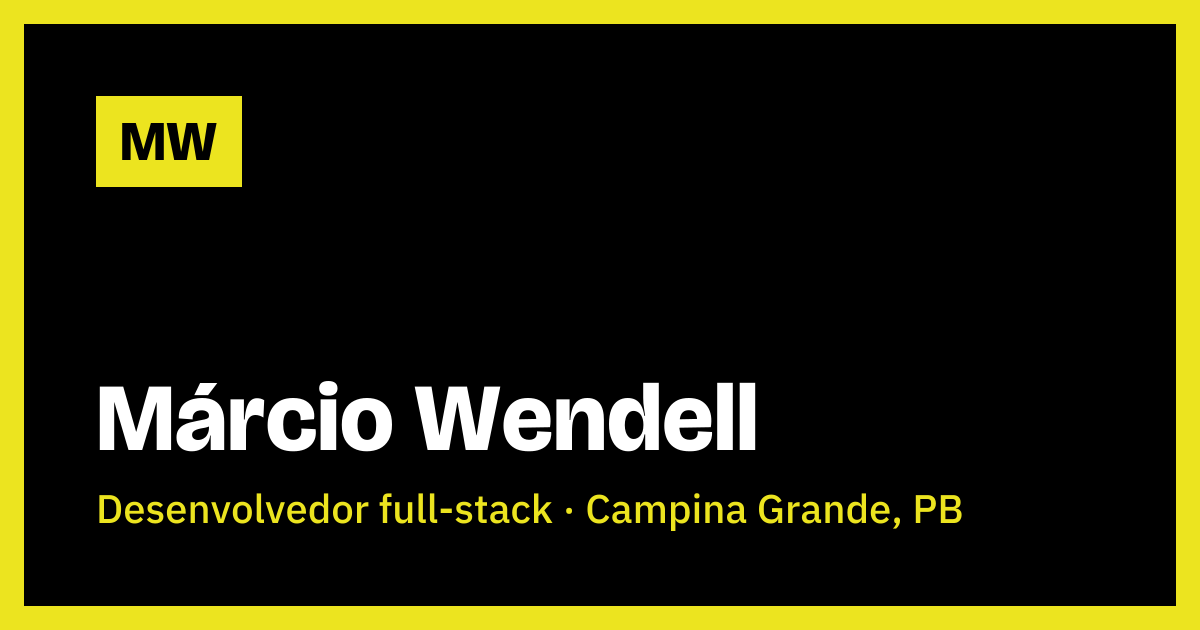
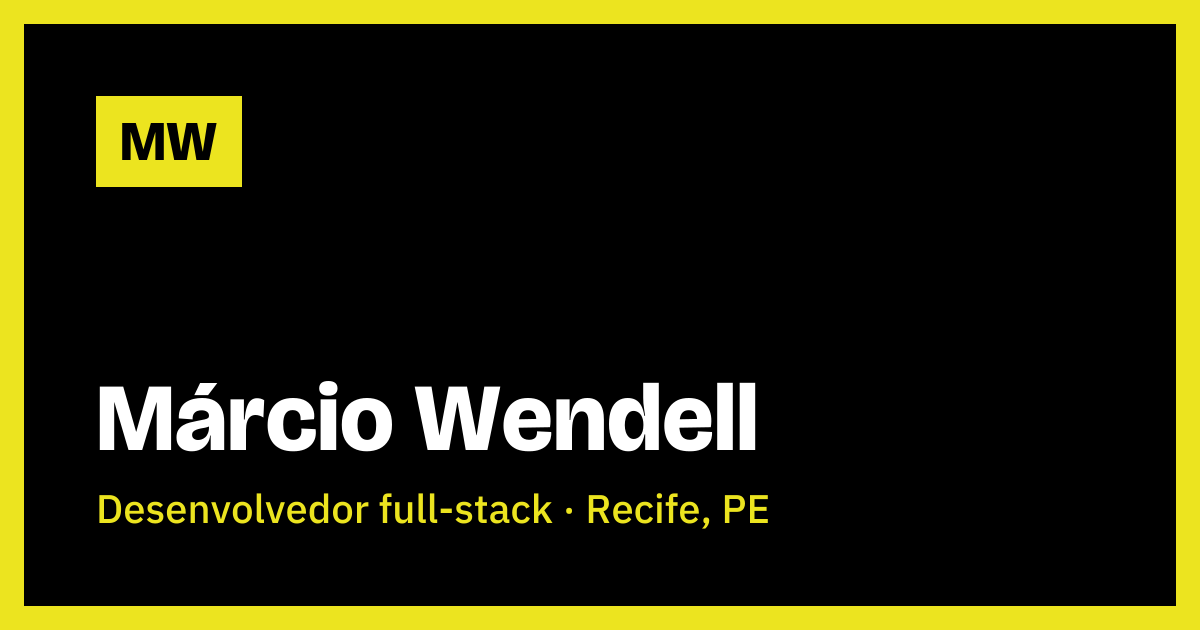
Set location to Recife, PE and remove CTFL certification

Changed region(s): [[0.4933, 0.7841, 0.8017, 0.8444]]

diff --git a/app/page.tsx b/app/page.tsx
@@ -130,7 +130,7 @@ export default function Home() {
         <section id="topo" className={`${container} flex scroll-mt-20 flex-wrap items-center gap-14 pt-[88px] pb-24`}>
           <div className="flex min-w-0 flex-[999_1_520px] flex-col gap-7">
             <p className="font-mono text-sm tracking-[0.04em] text-accent">
-              DESENVOLVEDOR FULL-STACK · CAMPINA GRANDE, PB
+              DESENVOLVEDOR FULL-STACK · RECIFE, PE
             </p>
             <h1 className="font-display text-[clamp(48px,7vw,92px)] leading-[0.98] font-extrabold tracking-[-0.03em]">Márcio Wendell</h1>
             <p className="max-w-[620px] text-[21px] leading-normal text-ink-soft">
@@ -162,7 +162,7 @@ export default function Home() {
             <SectionTitle index="01">Quem sou eu?</SectionTitle>
             <div className="flex max-w-[820px] flex-col gap-5 text-ink-soft">
               <p>
-                Sou desenvolvedor full-stack, moro em Campina Grande (PB) e curso Sistemas de Informação no Centro de
+                Sou desenvolvedor full-stack, moro em Recife (PE) e curso Sistemas de Informação no Centro de
                 Informática da UFPE. Meu ponto mais forte é o front-end com Next.js e Tailwind, e venho ampliando de
                 forma consistente o back-end e a qualidade de software.
               </p>

diff --git a/app/layout.tsx b/app/layout.tsx
@@ -24,7 +24,7 @@ export const metadata: Metadata = {
   metadataBase: new URL("https://wenderu00.github.io"),
   title: "Márcio Wendell · Portfólio",
   description:
-    "Desenvolvedor full-stack em Campina Grande (PB). Sistemas web de ponta a ponta, do Next.js ao banco de dados, com foco em testes e arquitetura.",
+    "Desenvolvedor full-stack em Recife (PE). Sistemas web de ponta a ponta, do Next.js ao banco de dados, com foco em testes e arquitetura.",
 };
 
 export default function RootLayout({ children }: LayoutProps<"/">) {

diff --git a/app/content.ts b/app/content.ts
@@ -39,7 +39,6 @@ export type ProjectLink = { label: string; href: string };
 
 export const highlights = [
   { label: "Formação", value: "Sistemas de Informação, CIn/UFPE" },
-  { label: "Em formação", value: "Certificação CTFL (ISTQB)" },
   { label: "Objetivo", value: "Arquiteto de software especialista" },
 ];
 
